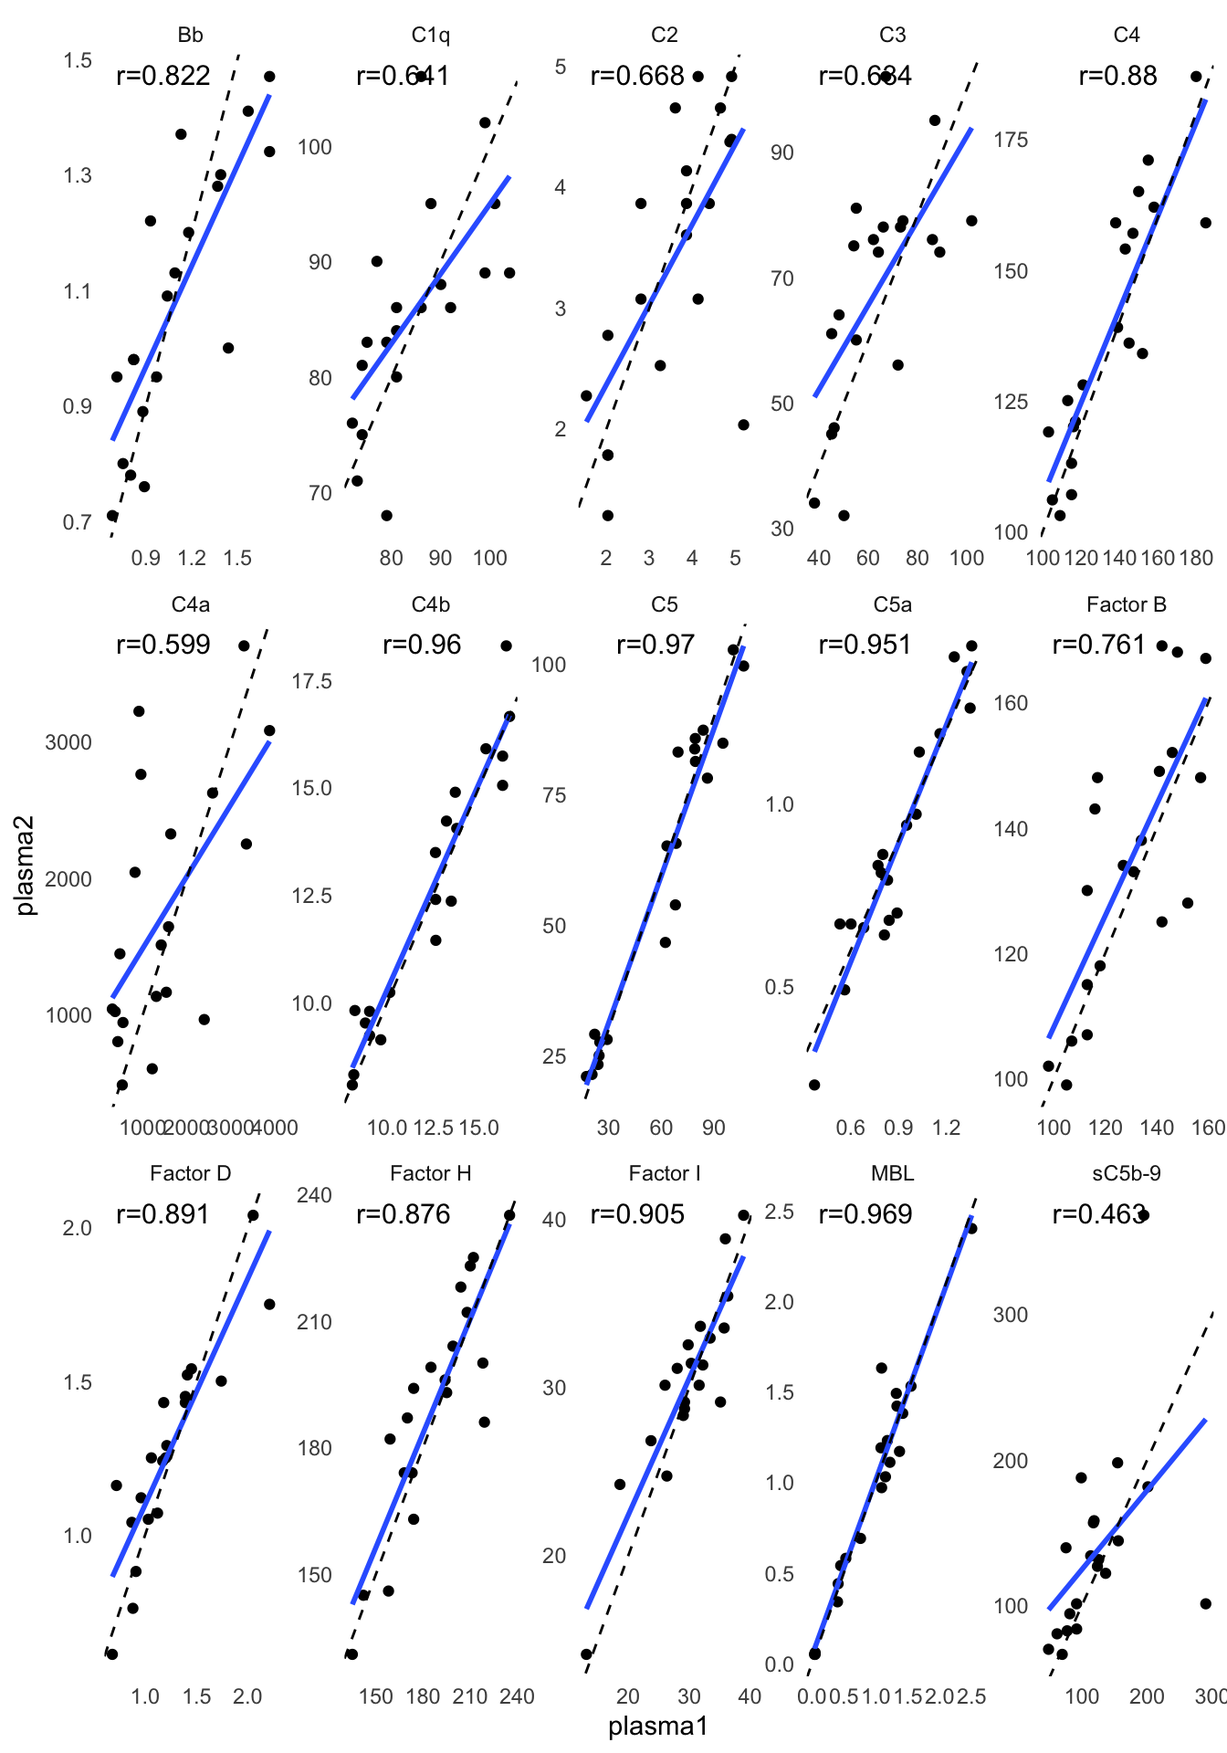
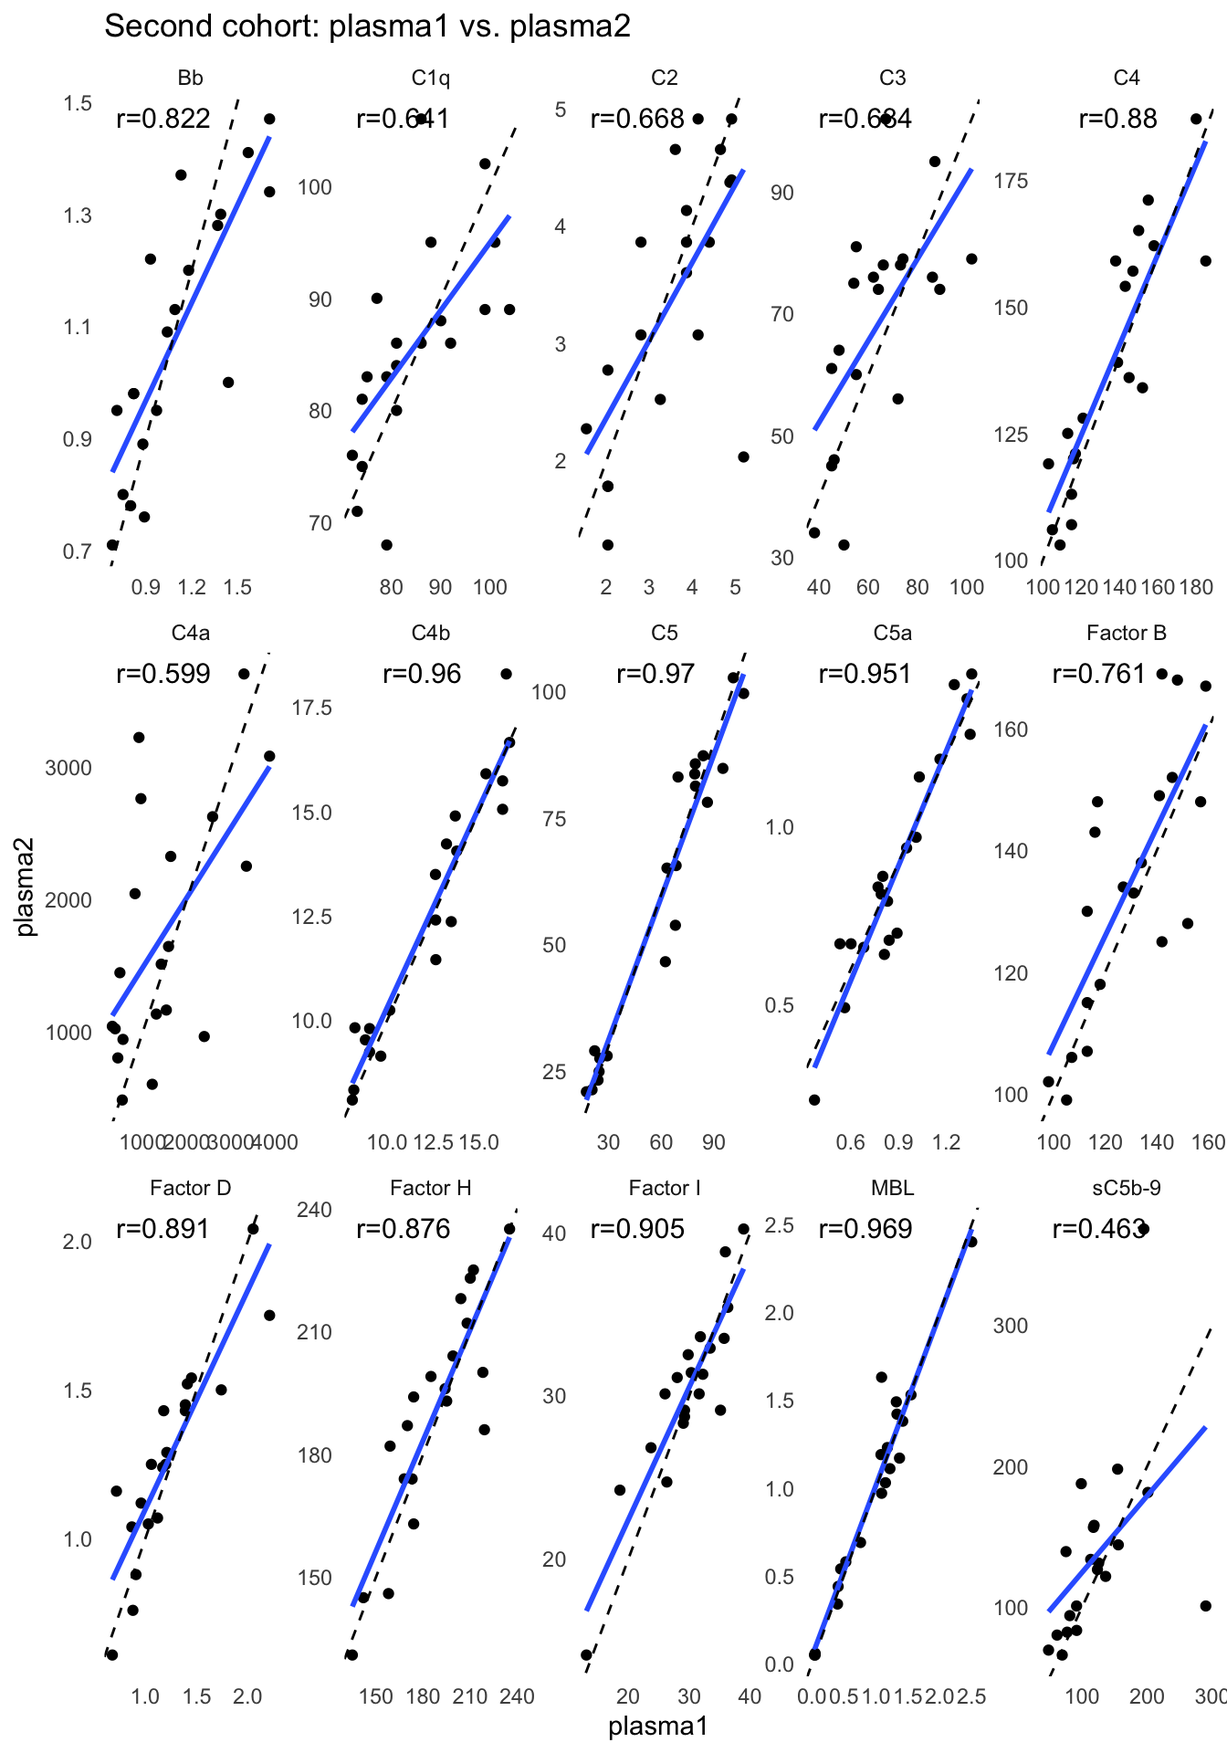
modified chapter 2's html and related

diff --git a/docs/second-cohort.html b/docs/second-cohort.html
@@ -24,7 +24,7 @@
 <meta name="author" content="Chao-Jen Wong" />
 
 
-<meta name="date" content="2021-11-29" />
+<meta name="date" content="2021-12-04" />
 
   <meta name="viewport" content="width=device-width, initial-scale=1" />
   <meta name="apple-mobile-web-app-capable" content="yes" />
@@ -153,7 +153,9 @@ code span.wa { color: #60a0b0; font-weight: bold; font-style: italic; } /* Warni
 <li class="chapter" data-level="2.2.2" data-path="second-cohort.html"><a href="second-cohort.html#violin-plot-of-15-complement-components-measurements"><i class="fa fa-check"></i><b>2.2.2</b> Violin plot of 15 complement components measurements</a></li>
 </ul></li>
 <li class="chapter" data-level="2.3" data-path="second-cohort.html"><a href="second-cohort.html#controls-from-two-cohorts"><i class="fa fa-check"></i><b>2.3</b> Controls from two cohorts</a></li>
-<li class="chapter" data-level="2.4" data-path="second-cohort.html"><a href="second-cohort.html#stability-of-fshds-between-two-visits"><i class="fa fa-check"></i><b>2.4</b> Stability of FSHDs between two visits</a></li>
+<li class="chapter" data-level="2.4" data-path="second-cohort.html"><a href="second-cohort.html#stability-of-fshds-between-two-visits"><i class="fa fa-check"></i><b>2.4</b> Stability of FSHDs between two visits</a><ul>
+<li class="chapter" data-level="2.4.1" data-path="second-cohort.html"><a href="second-cohort.html#linear-regression"><i class="fa fa-check"></i><b>2.4.1</b> Linear regression</a></li>
+</ul></li>
 </ul></li>
 <li class="chapter" data-level="3" data-path="combined-cohort.html"><a href="combined-cohort.html"><i class="fa fa-check"></i><b>3</b> Combined cohort</a><ul>
 <li class="chapter" data-level="3.1" data-path="combined-cohort.html"><a href="combined-cohort.html#explore-components-best-distinguish-fshd-from-controls"><i class="fa fa-check"></i><b>3.1</b> Explore components best distinguish FSHD from controls</a><ul>
@@ -493,7 +495,7 @@ Figure 2.3: Complement levels of controls from two cohorts. The violin plots dis
 </div>
 <div id="stability-of-fshds-between-two-visits" class="section level2">
 <h2><span class="header-section-number">2.4</span> Stability of FSHDs between two visits</h2>
-<p>The FSHD subjects’ first and the second visits are named <code>plasma1</code> and <code>plasma2</code> respectively. We made a trajectory plot – <code>plasma 1</code> to <code>plasma 2</code> – for each of the complement component. There are total 41 FSHD subjects (41 dots on <code>plasma 1</code>) and only 20 have the second visits. The code chuck below reproduce Suppl. Fig. 2b. The</p>
+<p>The FSHD subjects’ first and the second visits are named <code>plasma1</code> and <code>plasma2</code> respectively. We made a trajectory plot – <code>plasma 1</code> to <code>plasma 2</code> – for each of the complement component. There are total 41 FSHD subjects (41 dots on <code>plasma 1</code>) and 20 have the second visits (20 dots on <code>plasma 2</code>). The code chuck below reproduce Suppl. Fig. 2b. The</p>
 <div class="sourceCode" id="cb15"><pre class="sourceCode r"><code class="sourceCode r"><a class="sourceLine" id="cb15-1" data-line-number="1">cohort2_pairs &lt;-<span class="st"> </span></a>
 <a class="sourceLine" id="cb15-2" data-line-number="2"><span class="st">  </span><span class="kw">get</span>(<span class="kw">load</span>(<span class="kw">file.path</span>(pkg_dir, <span class="st">&quot;data&quot;</span>, <span class="st">&quot;table_4_update.rda&quot;</span>)))  <span class="op">%&gt;%</span></a>
 <a class="sourceLine" id="cb15-3" data-line-number="3"><span class="st">  </span><span class="kw">.tidy_names</span>(.) <span class="op">%&gt;%</span><span class="st"> </span></a>
@@ -521,12 +523,15 @@ Figure 2.3: Complement levels of controls from two cohorts. The violin plots dis
 <a class="sourceLine" id="cb15-25" data-line-number="25"><span class="st">  </span><span class="kw">labs</span>(<span class="dt">title=</span><span class="st">&quot;Cohort2: plasma1 vs. plasma2&quot;</span>, </a>
 <a class="sourceLine" id="cb15-26" data-line-number="26">       <span class="dt">y=</span><span class="kw">expression</span>(mu<span class="op">*</span>g <span class="op">/</span><span class="st"> </span>ml))</a></code></pre></div>
 <div class="figure"><span id="fig:plot-cohort2-plasma1-pairs-trajectory"></span>
-<img src="gitbook_files/figure-html/plot-cohort2-plasma1-pairs-trajectory-1.png" alt="A trajectory plot of complement levels between the first (plasma1) and second (plasma2) plasma samples of individuals. The gray area presents the range of complement levels in the second cohort's controls." width="672" />
+<img src="gitbook_files/figure-html/plot-cohort2-plasma1-pairs-trajectory-1.png" alt="A trajectory plot of complement levels between the first (plasma1) and second (plasma2) plasma samples of individuals. The trajectory was assigned to the subjects that have the second plasma sample. The gray area presents the range of complement levels in the second cohort's controls." width="672" />
 <p class="caption">
-Figure 2.4: A trajectory plot of complement levels between the first (plasma1) and second (plasma2) plasma samples of individuals. The gray area presents the range of complement levels in the second cohort’s controls.
+Figure 2.4: A trajectory plot of complement levels between the first (plasma1) and second (plasma2) plasma samples of individuals. The trajectory was assigned to the subjects that have the second plasma sample. The gray area presents the range of complement levels in the second cohort’s controls.
 </p>
 </div>
 <div class="sourceCode" id="cb16"><pre class="sourceCode r"><code class="sourceCode r"><a class="sourceLine" id="cb16-1" data-line-number="1"><span class="kw">ggsave</span>(<span class="kw">file.path</span>(pkg_dir, <span class="st">&quot;figures&quot;</span>, <span class="st">&quot;Cohort2-plasma-pairs-trajectoryplot.pdf&quot;</span>), <span class="dt">width=</span><span class="fl">7.5</span>, <span class="dt">height=</span><span class="dv">6</span>)</a></code></pre></div>
+<div id="linear-regression" class="section level3">
+<h3><span class="header-section-number">2.4.1</span> Linear regression</h3>
+<p>We performed linear regression between visits for 20 individuals from the second cohort. The scatter plots show the complement component levels between the first (plasma1) and second (plasma2) plasma samples of of the subset of 20 individuals that provided a second plasma sample 3 months after the first. The solid blue lines are the simple linear regression lines.</p>
 <div class="sourceCode" id="cb17"><pre class="sourceCode r"><code class="sourceCode r"><a class="sourceLine" id="cb17-1" data-line-number="1">all_cohort2_visits &lt;-<span class="st"> </span></a>
 <a class="sourceLine" id="cb17-2" data-line-number="2"><span class="st">  </span><span class="kw">get</span>(<span class="kw">load</span>(<span class="kw">file.path</span>(pkg_dir, <span class="st">&quot;data&quot;</span>, <span class="st">&quot;table_4_update.rda&quot;</span>)))  <span class="op">%&gt;%</span></a>
 <a class="sourceLine" id="cb17-3" data-line-number="3"><span class="st">  </span><span class="kw">.tidy_names</span>(.) <span class="op">%&gt;%</span><span class="st"> </span></a>
@@ -542,43 +547,34 @@ Figure 2.4: A trajectory plot of complement levels between the first (plasma1) a
 <a class="sourceLine" id="cb17-13" data-line-number="13"><span class="st">  </span><span class="kw">gather</span>(<span class="dt">key=</span>complement, <span class="dt">value=</span>ml, <span class="op">-</span>Plasma, <span class="op">-</span><span class="st">`</span><span class="dt">patient ID</span><span class="st">`</span>) <span class="op">%&gt;%</span></a>
 <a class="sourceLine" id="cb17-14" data-line-number="14"><span class="st">  </span><span class="kw">spread</span>(Plasma, ml)</a>
 <a class="sourceLine" id="cb17-15" data-line-number="15"></a>
-<a class="sourceLine" id="cb17-16" data-line-number="16">lm_eqn &lt;-<span class="st"> </span><span class="cf">function</span>(df){</a>
-<a class="sourceLine" id="cb17-17" data-line-number="17">    m &lt;-<span class="st"> </span><span class="kw">lm</span>(plasma2 <span class="op">~</span><span class="st"> </span>plasma1, df);</a>
-<a class="sourceLine" id="cb17-18" data-line-number="18">    eq &lt;-<span class="st"> </span><span class="kw">substitute</span>(<span class="kw">italic</span>(y) <span class="op">==</span><span class="st"> </span>a <span class="op">+</span><span class="st"> </span>b <span class="op">%.%</span><span class="st"> </span><span class="kw">italic</span>(x)<span class="op">*</span><span class="st">&quot;,&quot;</span><span class="op">~</span><span class="er">~</span><span class="kw">italic</span>(r)<span class="op">~</span><span class="st">&quot;=&quot;</span><span class="op">~</span>r2,</a>
-<a class="sourceLine" id="cb17-19" data-line-number="19">         <span class="kw">list</span>(<span class="dt">a =</span> <span class="kw">format</span>(<span class="kw">unname</span>(<span class="kw">coef</span>(m)[<span class="dv">1</span>]), <span class="dt">digits =</span> <span class="dv">2</span>),</a>
-<a class="sourceLine" id="cb17-20" data-line-number="20">              <span class="dt">b =</span> <span class="kw">format</span>(<span class="kw">unname</span>(<span class="kw">coef</span>(m)[<span class="dv">2</span>]), <span class="dt">digits =</span> <span class="dv">2</span>),</a>
-<a class="sourceLine" id="cb17-21" data-line-number="21">              <span class="dt">r2 =</span> <span class="kw">format</span>(<span class="kw">sqrt</span>(<span class="kw">summary</span>(m)<span class="op">$</span>r.squared), <span class="dt">digits =</span> <span class="dv">3</span>)))</a>
-<a class="sourceLine" id="cb17-22" data-line-number="22">    <span class="kw">data.frame</span>(<span class="dt">label=</span><span class="kw">as.character</span>(<span class="kw">as.expression</span>(eq)))</a>
-<a class="sourceLine" id="cb17-23" data-line-number="23">}</a>
-<a class="sourceLine" id="cb17-24" data-line-number="24"></a>
-<a class="sourceLine" id="cb17-25" data-line-number="25">lm_r2 &lt;-<span class="st"> </span><span class="cf">function</span>(df) {</a>
-<a class="sourceLine" id="cb17-26" data-line-number="26">  m &lt;-<span class="st"> </span><span class="kw">lm</span>(plasma2 <span class="op">~</span><span class="st"> </span>plasma1, df)</a>
-<a class="sourceLine" id="cb17-27" data-line-number="27">  r &lt;-<span class="st"> </span><span class="kw">format</span>(<span class="kw">sqrt</span>(<span class="kw">summary</span>(m)<span class="op">$</span>r.squared), <span class="dt">digits =</span> <span class="dv">3</span>)</a>
-<a class="sourceLine" id="cb17-28" data-line-number="28">  <span class="kw">data.frame</span>(<span class="dt">label=</span><span class="kw">paste0</span>(<span class="st">&quot;r=&quot;</span>, r))</a>
-<a class="sourceLine" id="cb17-29" data-line-number="29">}</a>
-<a class="sourceLine" id="cb17-30" data-line-number="30"></a>
-<a class="sourceLine" id="cb17-31" data-line-number="31">lm_<span class="dv">2</span> &lt;-<span class="st"> </span>paired <span class="op">%&gt;%</span><span class="st"> </span><span class="kw">group_by</span>(complement) <span class="op">%&gt;%</span></a>
-<a class="sourceLine" id="cb17-32" data-line-number="32"><span class="st"> </span><span class="kw">group_modify</span>( <span class="op">~</span><span class="st"> </span><span class="kw">lm_r2</span>(.x))</a>
-<a class="sourceLine" id="cb17-33" data-line-number="33"></a>
-<a class="sourceLine" id="cb17-34" data-line-number="34">lm &lt;-<span class="st"> </span>paired <span class="op">%&gt;%</span><span class="st"> </span><span class="kw">group_by</span>(complement) <span class="op">%&gt;%</span></a>
-<a class="sourceLine" id="cb17-35" data-line-number="35"><span class="st">  </span><span class="kw">group_modify</span>(<span class="op">~</span><span class="st"> </span>broom<span class="op">::</span><span class="kw">tidy</span>(<span class="kw">lm</span>(plasma2 <span class="op">~</span><span class="st"> </span>plasma1, <span class="dt">data =</span> .x)))</a>
-<a class="sourceLine" id="cb17-36" data-line-number="36"></a>
-<a class="sourceLine" id="cb17-37" data-line-number="37"></a>
-<a class="sourceLine" id="cb17-38" data-line-number="38"><span class="kw">ggplot</span>(paired, <span class="kw">aes</span>(<span class="dt">x=</span>plasma1, <span class="dt">y=</span>plasma2)) <span class="op">+</span></a>
-<a class="sourceLine" id="cb17-39" data-line-number="39"><span class="st">  </span><span class="kw">geom_point</span>() <span class="op">+</span></a>
-<a class="sourceLine" id="cb17-40" data-line-number="40"><span class="st">  </span><span class="kw">geom_smooth</span>(<span class="dt">method=</span><span class="st">&quot;lm&quot;</span>, <span class="dt">se=</span><span class="ot">FALSE</span>) <span class="op">+</span></a>
-<a class="sourceLine" id="cb17-41" data-line-number="41"><span class="st">  </span><span class="kw">facet_wrap</span>(<span class="op">~</span><span class="st"> </span>complement, <span class="dt">nrow=</span><span class="dv">3</span>, <span class="dt">scale=</span><span class="st">&quot;free&quot;</span>) <span class="op">+</span></a>
-<a class="sourceLine" id="cb17-42" data-line-number="42"><span class="st">  </span><span class="kw">geom_abline</span>(<span class="dt">slope=</span><span class="dv">1</span>, <span class="dt">intercept=</span><span class="dv">0</span>, <span class="dt">linetype=</span><span class="st">&quot;dashed&quot;</span>) <span class="op">+</span></a>
-<a class="sourceLine" id="cb17-43" data-line-number="43"><span class="st">  </span><span class="kw">theme_minimal</span>() <span class="op">+</span></a>
-<a class="sourceLine" id="cb17-44" data-line-number="44"><span class="st">  </span><span class="kw">geom_text</span>(</a>
-<a class="sourceLine" id="cb17-45" data-line-number="45">    <span class="dt">size    =</span> <span class="dv">4</span>,</a>
-<a class="sourceLine" id="cb17-46" data-line-number="46">    <span class="dt">data    =</span> lm_<span class="dv">2</span>,</a>
-<a class="sourceLine" id="cb17-47" data-line-number="47">    <span class="dt">mapping =</span> <span class="kw">aes</span>(<span class="dt">x =</span> <span class="ot">Inf</span>, <span class="dt">y =</span> <span class="ot">Inf</span>, <span class="dt">label =</span> label),</a>
-<a class="sourceLine" id="cb17-48" data-line-number="48">    <span class="dt">hjust   =</span> <span class="fl">1.7</span>,</a>
-<a class="sourceLine" id="cb17-49" data-line-number="49">    <span class="dt">vjust   =</span> <span class="fl">1.5</span></a>
-<a class="sourceLine" id="cb17-50" data-line-number="50">  ) <span class="op">+</span></a>
-<a class="sourceLine" id="cb17-51" data-line-number="51"><span class="st">  </span><span class="kw">theme</span>(<span class="dt">panel.grid.major =</span> <span class="kw">element_blank</span>(), </a>
-<a class="sourceLine" id="cb17-52" data-line-number="52">        <span class="dt">panel.grid.minor =</span> <span class="kw">element_blank</span>())</a></code></pre></div>
+<a class="sourceLine" id="cb17-16" data-line-number="16"></a>
+<a class="sourceLine" id="cb17-17" data-line-number="17">lm_r2 &lt;-<span class="st"> </span><span class="cf">function</span>(df) {</a>
+<a class="sourceLine" id="cb17-18" data-line-number="18">  m &lt;-<span class="st"> </span><span class="kw">lm</span>(plasma2 <span class="op">~</span><span class="st"> </span>plasma1, df)</a>
+<a class="sourceLine" id="cb17-19" data-line-number="19">  r &lt;-<span class="st"> </span><span class="kw">format</span>(<span class="kw">sqrt</span>(<span class="kw">summary</span>(m)<span class="op">$</span>r.squared), <span class="dt">digits =</span> <span class="dv">3</span>)</a>
+<a class="sourceLine" id="cb17-20" data-line-number="20">  <span class="kw">data.frame</span>(<span class="dt">label=</span><span class="kw">paste0</span>(<span class="st">&quot;r=&quot;</span>, r))</a>
+<a class="sourceLine" id="cb17-21" data-line-number="21">}</a>
+<a class="sourceLine" id="cb17-22" data-line-number="22"></a>
+<a class="sourceLine" id="cb17-23" data-line-number="23">lm_<span class="dv">2</span> &lt;-<span class="st"> </span>paired <span class="op">%&gt;%</span><span class="st"> </span><span class="kw">group_by</span>(complement) <span class="op">%&gt;%</span></a>
+<a class="sourceLine" id="cb17-24" data-line-number="24"><span class="st"> </span><span class="kw">group_modify</span>( <span class="op">~</span><span class="st"> </span><span class="kw">lm_r2</span>(.x))</a>
+<a class="sourceLine" id="cb17-25" data-line-number="25"></a>
+<a class="sourceLine" id="cb17-26" data-line-number="26">lm &lt;-<span class="st"> </span>paired <span class="op">%&gt;%</span><span class="st"> </span><span class="kw">group_by</span>(complement) <span class="op">%&gt;%</span></a>
+<a class="sourceLine" id="cb17-27" data-line-number="27"><span class="st">  </span><span class="kw">group_modify</span>(<span class="op">~</span><span class="st"> </span>broom<span class="op">::</span><span class="kw">tidy</span>(<span class="kw">lm</span>(plasma2 <span class="op">~</span><span class="st"> </span>plasma1, <span class="dt">data =</span> .x)))</a>
+<a class="sourceLine" id="cb17-28" data-line-number="28"></a>
+<a class="sourceLine" id="cb17-29" data-line-number="29"><span class="kw">ggplot</span>(paired, <span class="kw">aes</span>(<span class="dt">x=</span>plasma1, <span class="dt">y=</span>plasma2)) <span class="op">+</span></a>
+<a class="sourceLine" id="cb17-30" data-line-number="30"><span class="st">  </span><span class="kw">geom_point</span>() <span class="op">+</span></a>
+<a class="sourceLine" id="cb17-31" data-line-number="31"><span class="st">  </span><span class="kw">geom_smooth</span>(<span class="dt">method=</span><span class="st">&quot;lm&quot;</span>, <span class="dt">se=</span><span class="ot">FALSE</span>) <span class="op">+</span></a>
+<a class="sourceLine" id="cb17-32" data-line-number="32"><span class="st">  </span><span class="kw">facet_wrap</span>(<span class="op">~</span><span class="st"> </span>complement, <span class="dt">nrow=</span><span class="dv">3</span>, <span class="dt">scale=</span><span class="st">&quot;free&quot;</span>) <span class="op">+</span></a>
+<a class="sourceLine" id="cb17-33" data-line-number="33"><span class="st">  </span><span class="kw">geom_abline</span>(<span class="dt">slope=</span><span class="dv">1</span>, <span class="dt">intercept=</span><span class="dv">0</span>, <span class="dt">linetype=</span><span class="st">&quot;dashed&quot;</span>) <span class="op">+</span></a>
+<a class="sourceLine" id="cb17-34" data-line-number="34"><span class="st">  </span><span class="kw">theme_minimal</span>() <span class="op">+</span></a>
+<a class="sourceLine" id="cb17-35" data-line-number="35"><span class="st">  </span><span class="kw">labs</span>(<span class="dt">title=</span><span class="st">&quot;Second cohort: plasma1 vs. plasma2&quot;</span>) <span class="op">+</span></a>
+<a class="sourceLine" id="cb17-36" data-line-number="36"><span class="st">  </span><span class="kw">geom_text</span>(</a>
+<a class="sourceLine" id="cb17-37" data-line-number="37">    <span class="dt">size    =</span> <span class="dv">4</span>,</a>
+<a class="sourceLine" id="cb17-38" data-line-number="38">    <span class="dt">data    =</span> lm_<span class="dv">2</span>,</a>
+<a class="sourceLine" id="cb17-39" data-line-number="39">    <span class="dt">mapping =</span> <span class="kw">aes</span>(<span class="dt">x =</span> <span class="ot">Inf</span>, <span class="dt">y =</span> <span class="ot">Inf</span>, <span class="dt">label =</span> label),</a>
+<a class="sourceLine" id="cb17-40" data-line-number="40">    <span class="dt">hjust   =</span> <span class="fl">1.7</span>,</a>
+<a class="sourceLine" id="cb17-41" data-line-number="41">    <span class="dt">vjust   =</span> <span class="fl">1.5</span>) <span class="op">+</span></a>
+<a class="sourceLine" id="cb17-42" data-line-number="42"><span class="st">    </span><span class="kw">theme</span>(<span class="dt">panel.grid.major =</span> <span class="kw">element_blank</span>(), </a>
+<a class="sourceLine" id="cb17-43" data-line-number="43">        <span class="dt">panel.grid.minor =</span> <span class="kw">element_blank</span>())</a></code></pre></div>
 <p><img src="gitbook_files/figure-html/scatter-between-two-visits-1.png" width="672" /></p>
 <div class="sourceCode" id="cb18"><pre class="sourceCode r"><code class="sourceCode r"><a class="sourceLine" id="cb18-1" data-line-number="1"><span class="kw">ggsave</span>(<span class="kw">file.path</span>(pkg_dir, <span class="st">&quot;figures&quot;</span>, </a>
 <a class="sourceLine" id="cb18-2" data-line-number="2">                 <span class="st">&quot;Cohort2-plasma-pairs-scatterplot.pdf&quot;</span>), <span class="dt">width=</span><span class="fl">7.5</span>, <span class="dt">height=</span><span class="dv">6</span>)</a></code></pre></div>
@@ -1251,6 +1247,7 @@ sC5b-9
 </tbody>
 </table>
 
+</div>
 </div>
 </div>
             </section>
